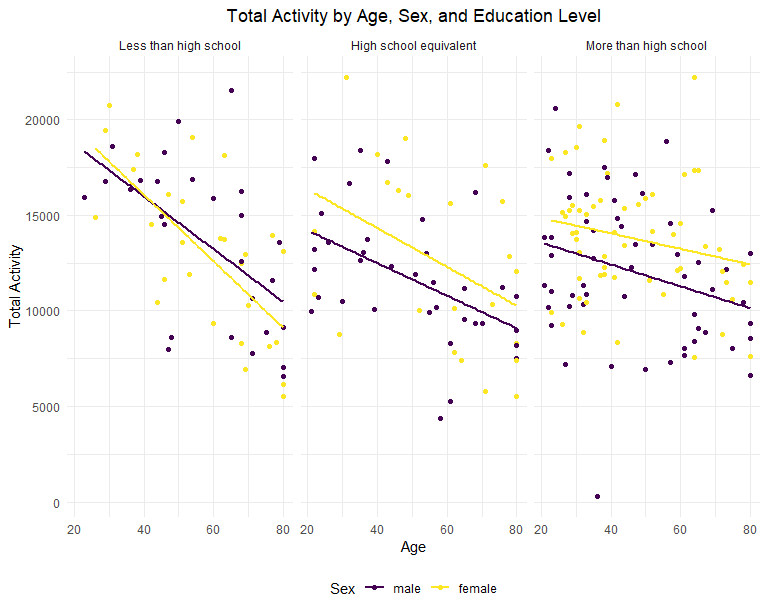
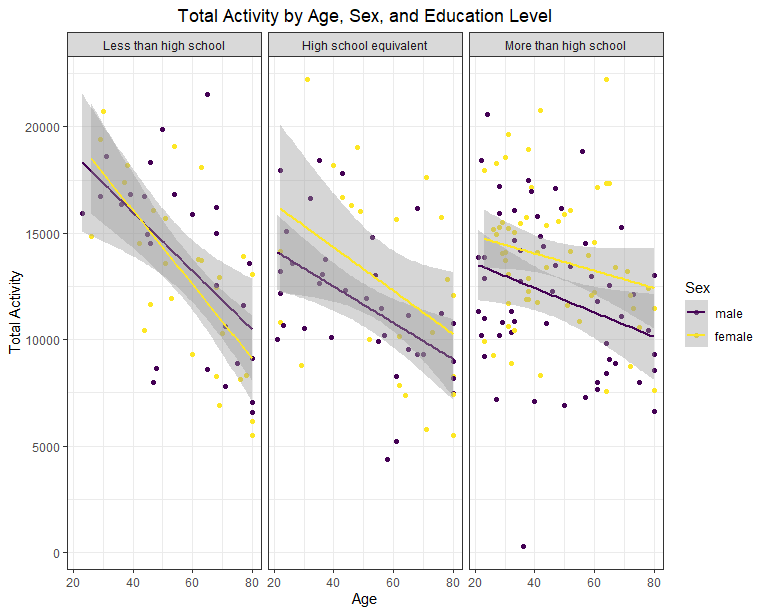
plot modification

diff --git a/p8105_hw3_yw4251.md b/p8105_hw3_yw4251.md
@@ -420,20 +420,21 @@ than females (23) in the “High school equivalent” category.
 covar_add_accel %>% 
   group_by(education,sex) %>% 
   summarize(count=n()) %>% 
+  pivot_wider(
+    names_from=sex,
+    values_from=count
+  ) %>% 
   knitr::kable()
 ```
 
     ## `summarise()` has grouped output by 'education'. You can override using the
     ## `.groups` argument.
 
-| education              | sex    | count |
-|:-----------------------|:-------|------:|
-| Less than high school  | male   |    27 |
-| Less than high school  | female |    28 |
-| High school equivalent | male   |    35 |
-| High school equivalent | female |    23 |
-| More than high school  | male   |    56 |
-| More than high school  | female |    59 |
+| education              | male | female |
+|:-----------------------|-----:|-------:|
+| Less than high school  |   27 |     28 |
+| High school equivalent |   35 |     23 |
+| More than high school  |   56 |     59 |
 
 ## Create a visualization of the age distributions for men and women in each education category. Comment on these items. As shown:
 
@@ -477,7 +478,7 @@ covar_add_accel %>%
   mutate(total_activity=rowSums(select(., min1:min1440))) %>%
   ggplot(aes(x=age,y=total_activity,color=sex))+
   geom_point()+
-  geom_smooth(method = "lm", se = FALSE)+
+  geom_smooth(method = "lm")+
   facet_grid(~education)+
    labs(
     title = "Total Activity by Age, Sex, and Education Level",
@@ -485,6 +486,7 @@ covar_add_accel %>%
     y = "Total Activity",
     color = "Sex"
   )+
+  theme_bw()+
   theme(
     plot.title = element_text(hjust = 0.5)
   )
@@ -526,6 +528,7 @@ covar_add_accel %>%
     y = "Activity Level",
     color = "Sex"
   ) +
+  theme_bw()+
   theme(
     plot.title = element_text(hjust = 0.5)
   )+
